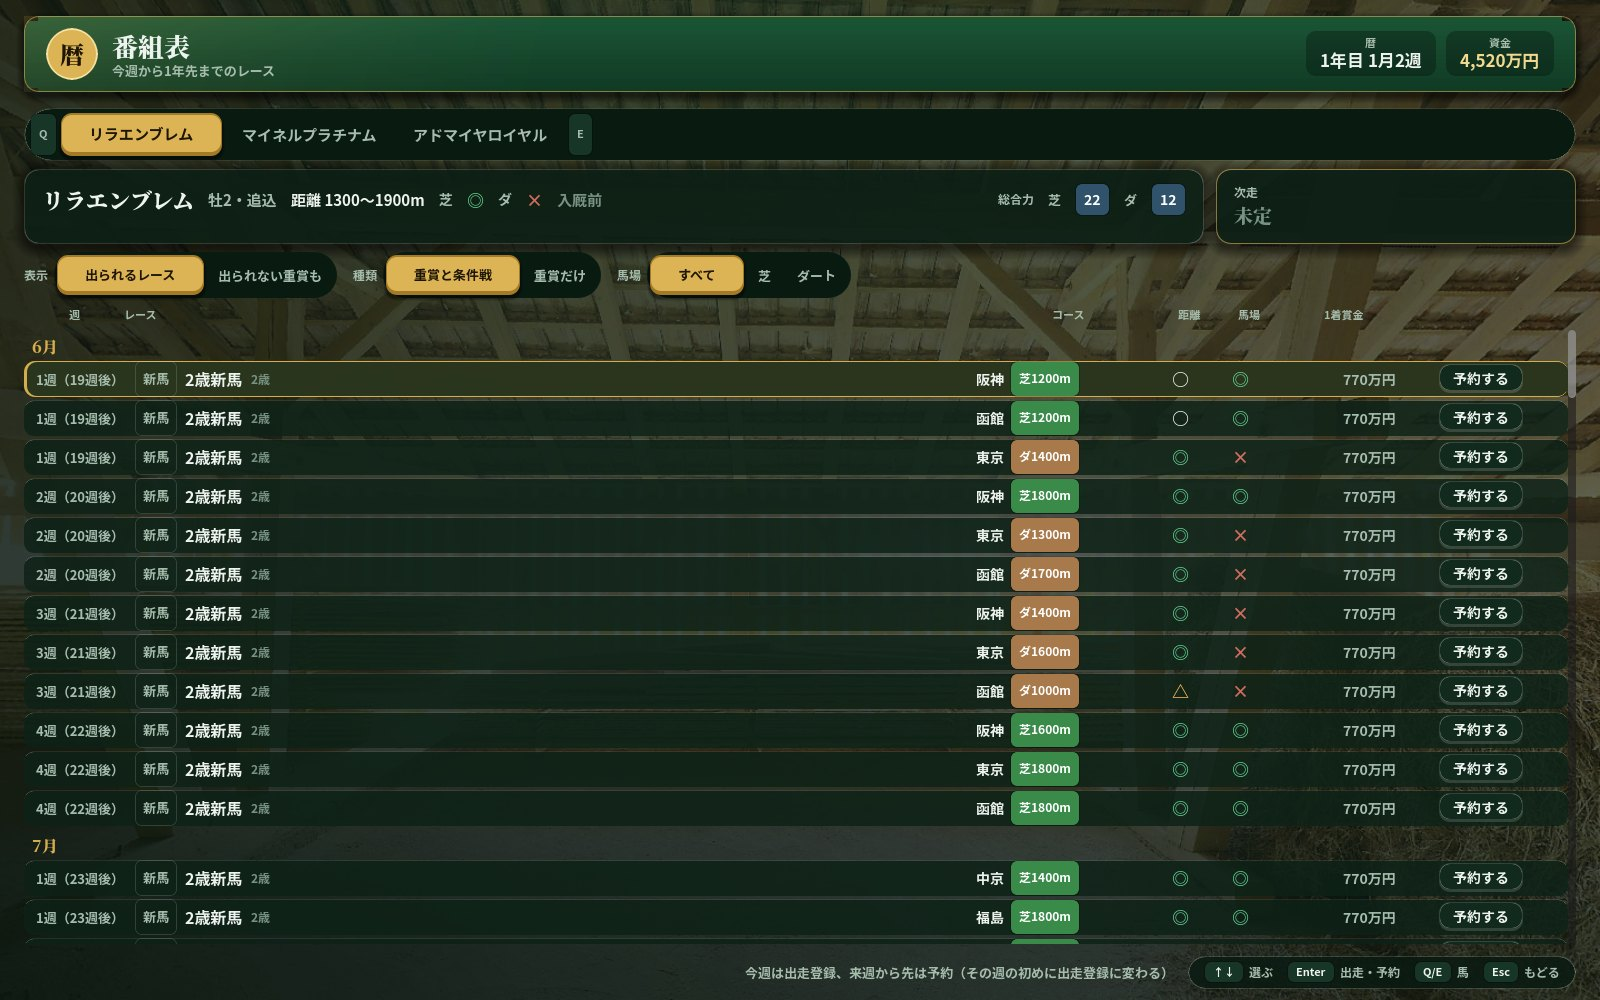
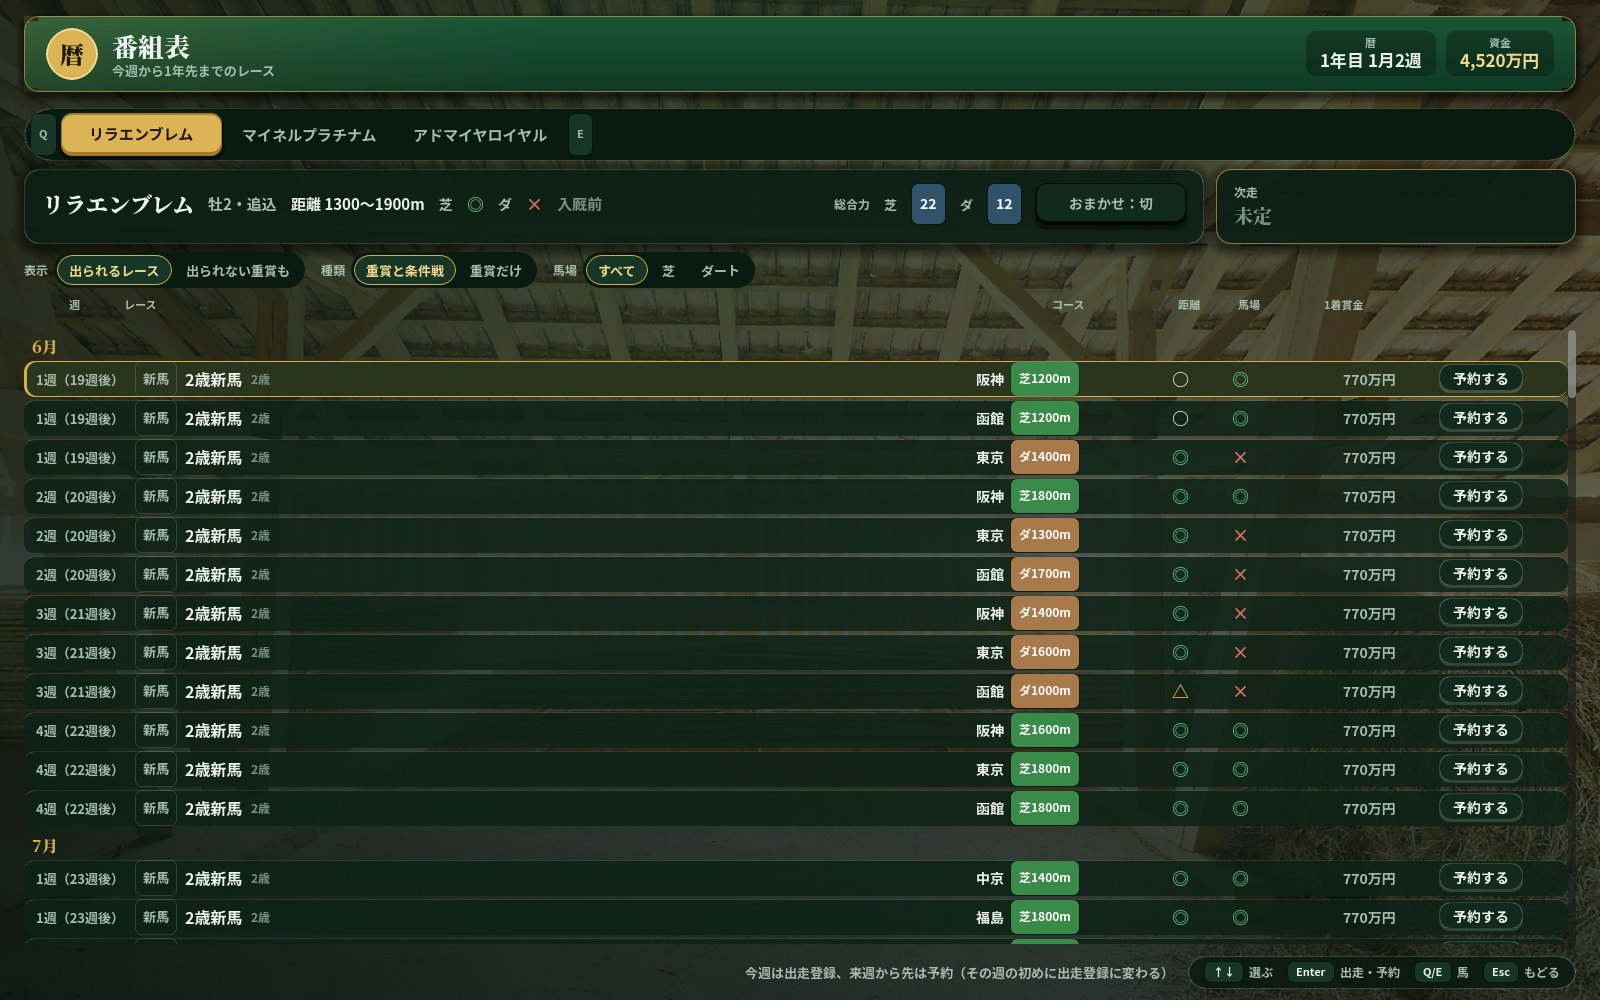
Godot 版の画面の手直し：番組表の絞り込みは金の縁だけ・ホームの依頼のひと言を2行に・週の結果は2鞍でも着順の表・タイトルのセーブの要点を大きく。採点を書き直す（タイトル12・ホーム12・番組表11）
Claude-Session: https://claude.ai/code/session_012moqMZoGGmPRF5mXBS6M9y

diff --git a/docs/UI.md b/docs/UI.md
@@ -244,12 +244,12 @@ JS 版の関数名（`UI.kit`）と、Godot で作るときの形。
 撮り方：`sh godot/tools/run_scene.sh res://scenes/<画面>.tscn -- --demo=1 --out=DIR --shot=0.8:名前`（`--demo=1` は決まった種の新しいゲームで1週進めた見本。セーブは書かない）。
 | 画面 | A | B | C | D | E | F | 計 | 次に直す所 |
 |---|---|---|---|---|---|---|---|---|
-| タイトル | 1 | 2 | 2 | 2 | 2 | 2 | 11 | 「つづきから」の要点（名前・年目・資金）をもう少し大きく |
-| ホーム | 2 | 2 | 1 | 2 | 2 | 2 | 11 | 依頼の札のひと言が1行で切れる。下半分が空くので、お手馬が少ないときは依頼の札を大きく |
-| 番組表 | 2 | 1 | 2 | 2 | 2 | 1 | 10 | 絞り込みの札の金が多い（選んだ札は金の縁だけに）。1画面に1か月半。行をもう少し詰める |
+| タイトル | 2 | 2 | 2 | 2 | 2 | 2 | 12 | |
+| ホーム | 2 | 2 | 2 | 2 | 2 | 2 | 12 | お手馬が少ないときに下半分が空く（依頼の札を大きくするか、馬の絵を出す） |
+| 番組表 | 2 | 2 | 2 | 2 | 2 | 1 | 11 | 1画面に1か月半。行をもう少し詰めて2か月分に |
 | 馬の店 | 2 | 2 | 2 | 2 | 2 | 2 | 12 | 見本の絵（いまは毛色の帯だけ） |
 | 出走表（週のレース） | 2 | 2 | 2 | 2 | 2 | 2 | 12 | |
-| 週の結果 | 2 | 2 | 2 | 2 | 2 | 2 | 12 | 2鞍以上のときの着順の表（いまは1鞍のときだけ） |
+| 週の結果 | 2 | 2 | 2 | 2 | 2 | 2 | 12 | 3鞍以上の週は着順の表を出さない（札だけ） |
 
 ---
 
